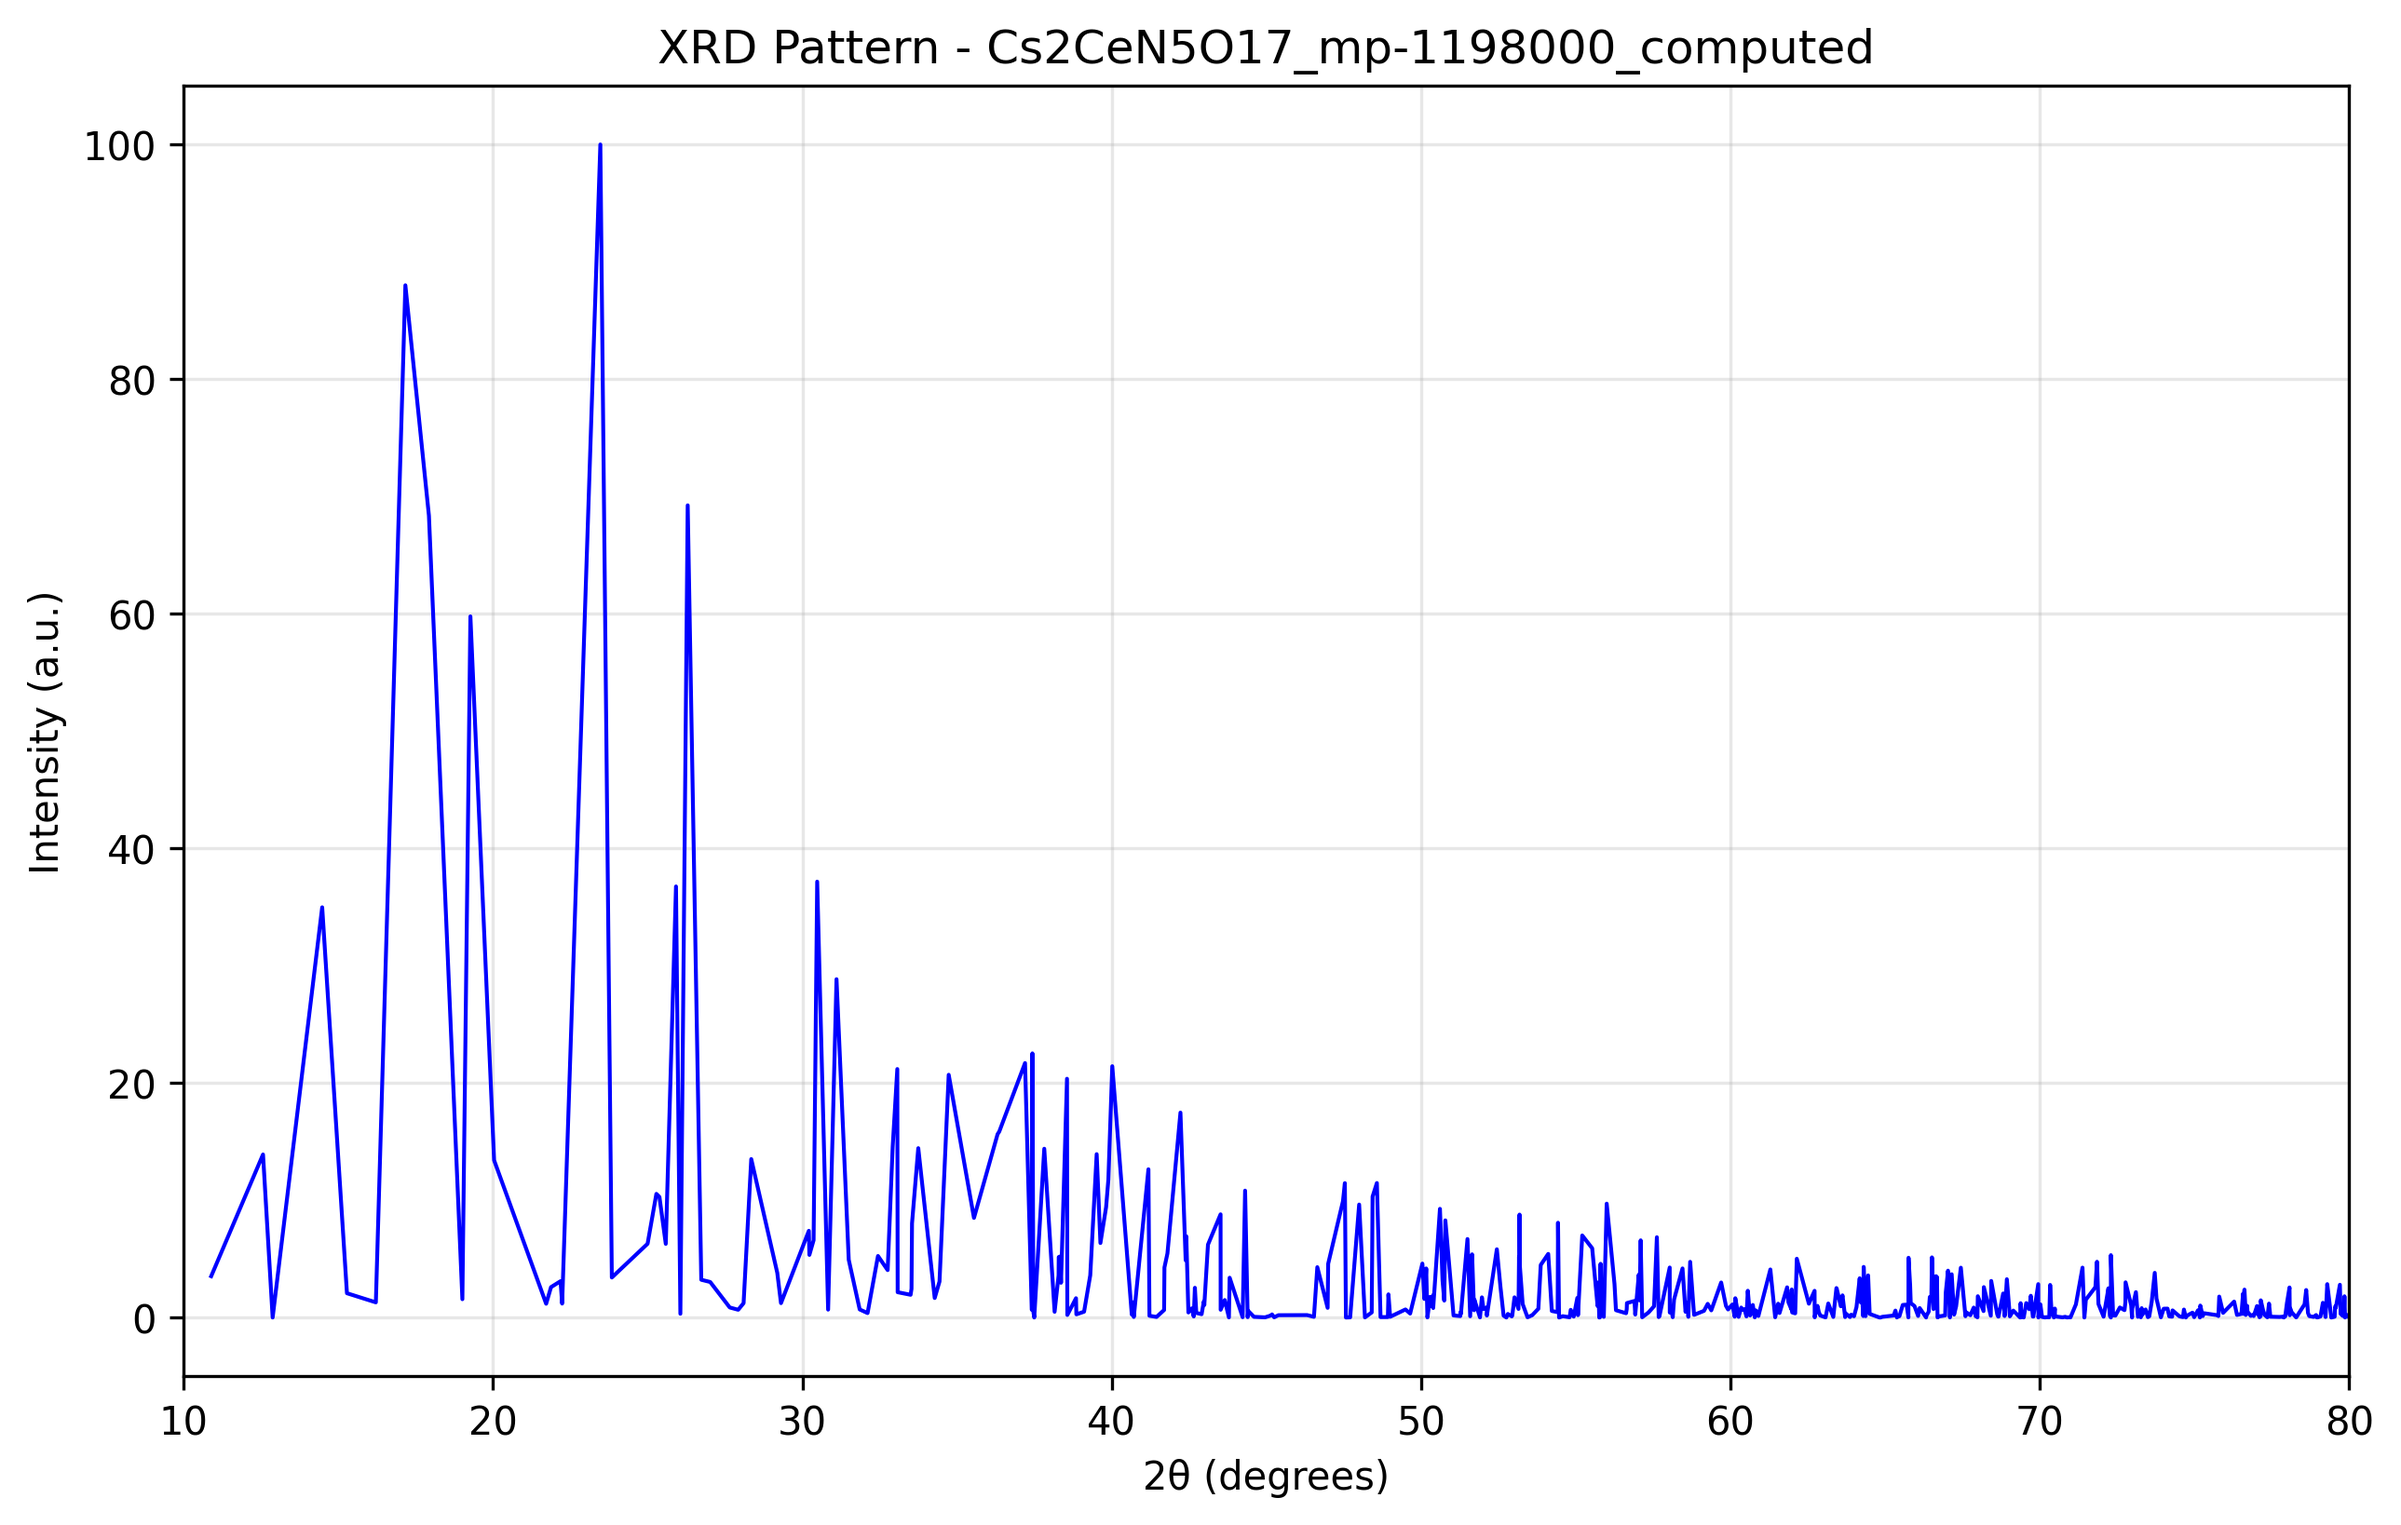
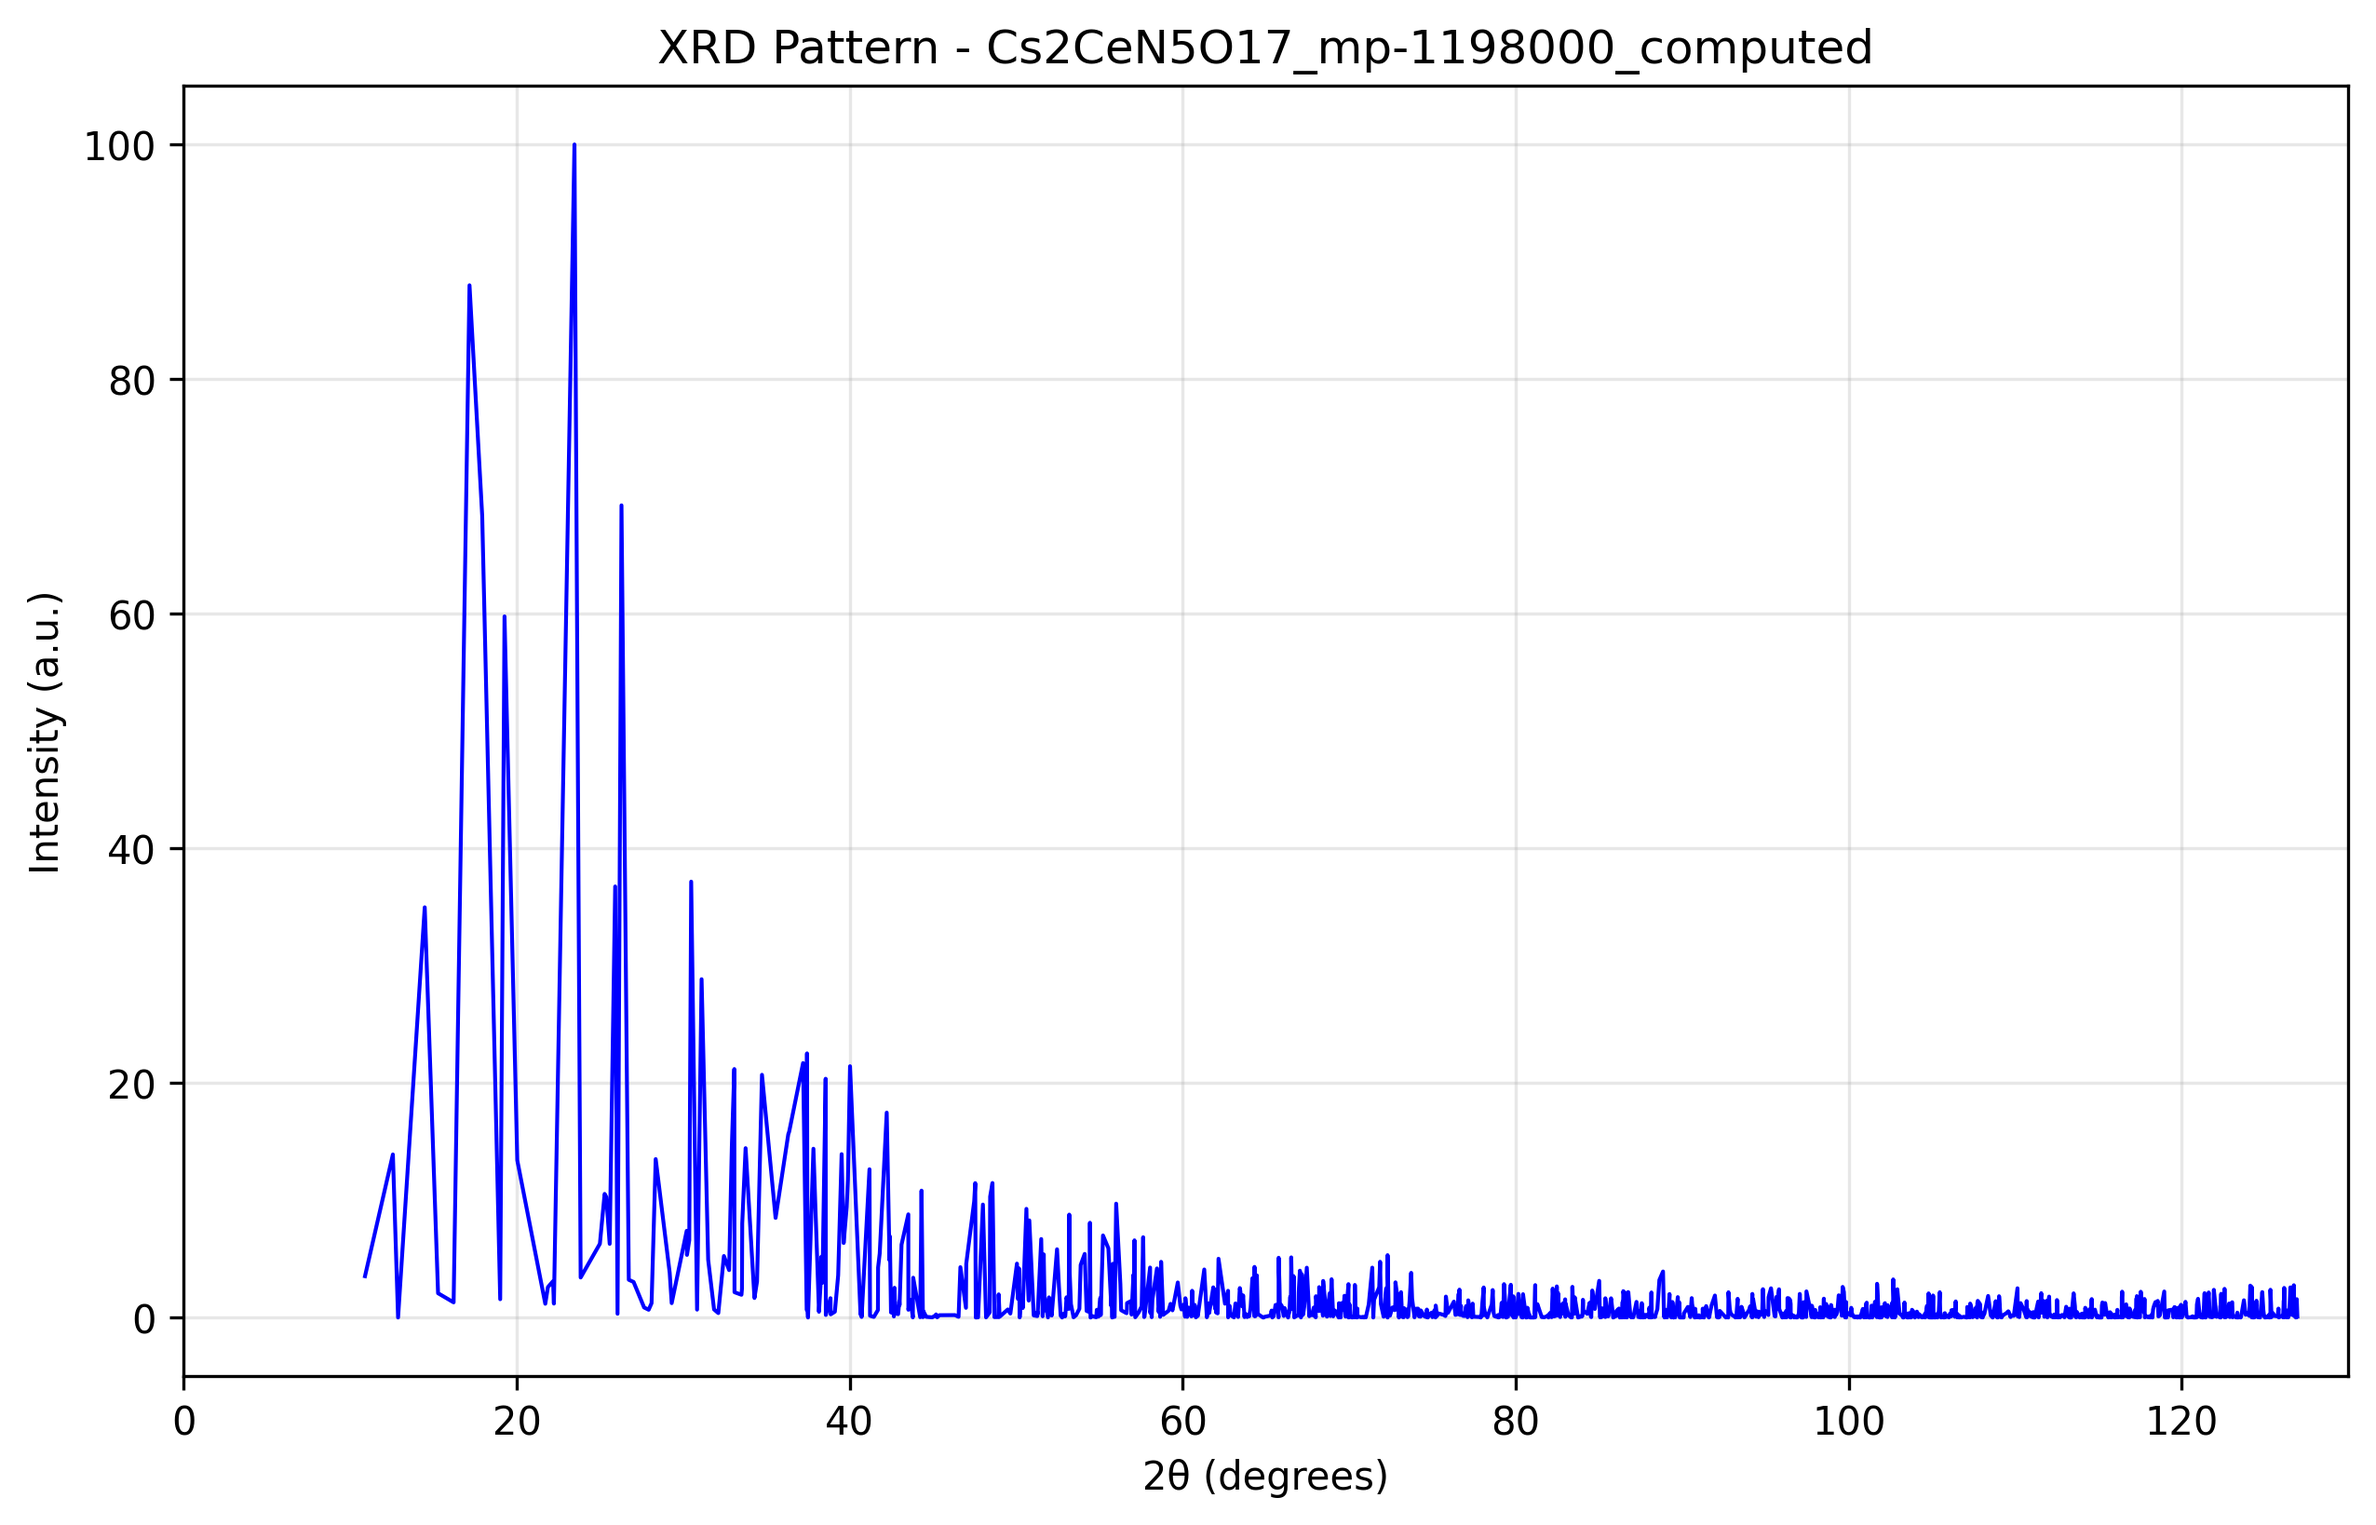
updated featurizer script

diff --git a/Featurizers/CIF_Featurizer.py b/Featurizers/CIF_Featurizer.py
@@ -4,7 +4,7 @@ import pandas as pd
 import matplotlib.pyplot as plt
 from tqdm import tqdm
 from pymatgen.core.structure import Structure
-from pymatgen.analysis.diffraction.xrd import XRDCalculator  # XRD 플롯용
+from pymatgen.analysis.diffraction.xrd import XRDCalculator
 from matminer.featurizers.structure import XRDPowderPattern
 from matminer.featurizers.structure.symmetry import GlobalSymmetryFeatures
 
@@ -12,7 +12,6 @@ from matminer.featurizers.structure.symmetry import GlobalSymmetryFeatures
 CIF_FOLDER = "CIFs"
 PLOT_FOLDER = "XRD_Patterns"
 OUTPUT_CSV_FILE = "crystal_features.csv"
-VECTOR_LENGTH = 256
 
 # --- 2. Setup Paths and Find Files --- 📁
 base_dir = os.path.dirname(os.path.abspath(__file__))
@@ -30,10 +29,10 @@ if not cif_files:
 
 # --- 3. Initialize Featurizers --- ✨
 gsf_featurizer = GlobalSymmetryFeatures()
-xrd_vector_featurizer = XRDPowderPattern(pattern_length=VECTOR_LENGTH)
+xrd_vector_featurizer = XRDPowderPattern(two_theta_range=(0, 127), wavelength='CuKa')
 
 # XRD Calculator for generating plots (pymatgen)
-xrd_calculator = XRDCalculator()
+xrd_calculator = XRDCalculator(wavelength='CuKa')
 
 # --- 4. Main Processing Loop --- 🚀
 all_results = []
@@ -60,7 +59,7 @@ for cif_path in tqdm(cif_files, desc="Processing CIFs"):
         all_results.append(result_dict)
         
         # (2) Generate and save XRD pattern plot using pymatgen
-        xrd_pattern = xrd_calculator.get_pattern(structure)
+        xrd_pattern = xrd_calculator.get_pattern(structure, two_theta_range=(0, 127))
         
         # Create the plot
         plt.figure(figsize=(10, 6))
@@ -69,7 +68,7 @@ for cif_path in tqdm(cif_files, desc="Processing CIFs"):
         plt.ylabel('Intensity (a.u.)')
         plt.title(f'XRD Pattern - {filename_no_ext}')
         plt.grid(True, alpha=0.3)
-        plt.xlim(10, 80)
+        plt.xlim(0, 130)
         
         # Save the plot
         plot_filename = f"{filename_no_ext}.png"
